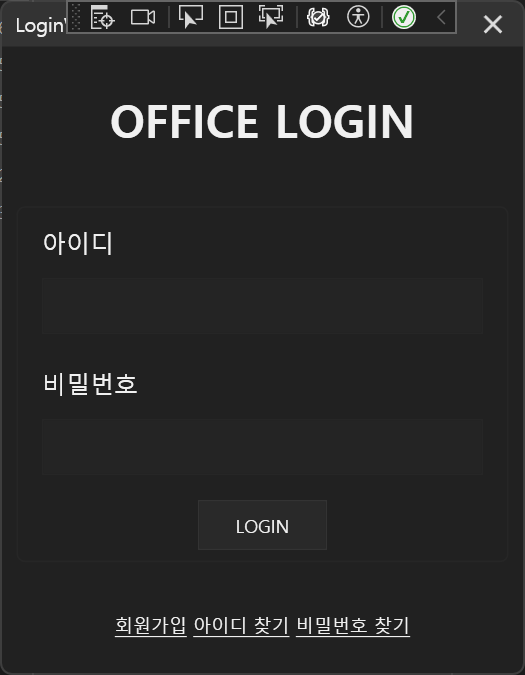
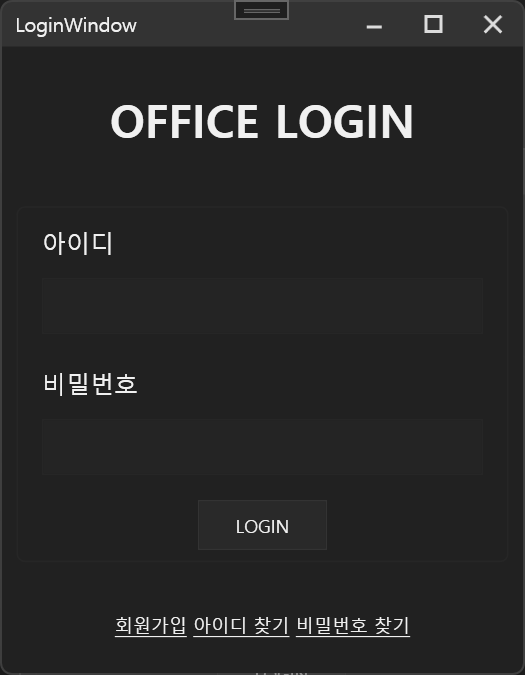
Update README.md

Changed region(s): [[0.3352, 0.0, 0.8838, 0.0622], [0.1219, 0.0, 0.3048, 0.0622], [0.4876, 0.9956, 0.579, 1.0]]

diff --git a/README.md b/README.md
@@ -65,24 +65,28 @@
 UI 구성과 화면 전환 로직에 집중했으며, 기능 완성보다는 구조 이해와 학습에 초점을 맞추고 있습니다.
 추후 여유가 생기면 백엔드와의 연동도 진행할 예정입니다.
 
+---
+
 ## 📷 Screenshots
 
 로그인
+
 ![Main Page Screenshot](images/login.png)
 
 회원가입
-![Main Page Screenshot](images/sign in.png)
 
-메인페이지
-![Main Page Screenshot](images/mainpage.png)
+![Main Page Screenshot](images/signin.png)
 
 채팅
+
 ![Main Page Screenshot](images/chat.png)
 
 친구추가
+
 ![Main Page Screenshot](images/friend.png)
 
 메모장
+
 ![Main Page Screenshot](images/note.png)
 
 
